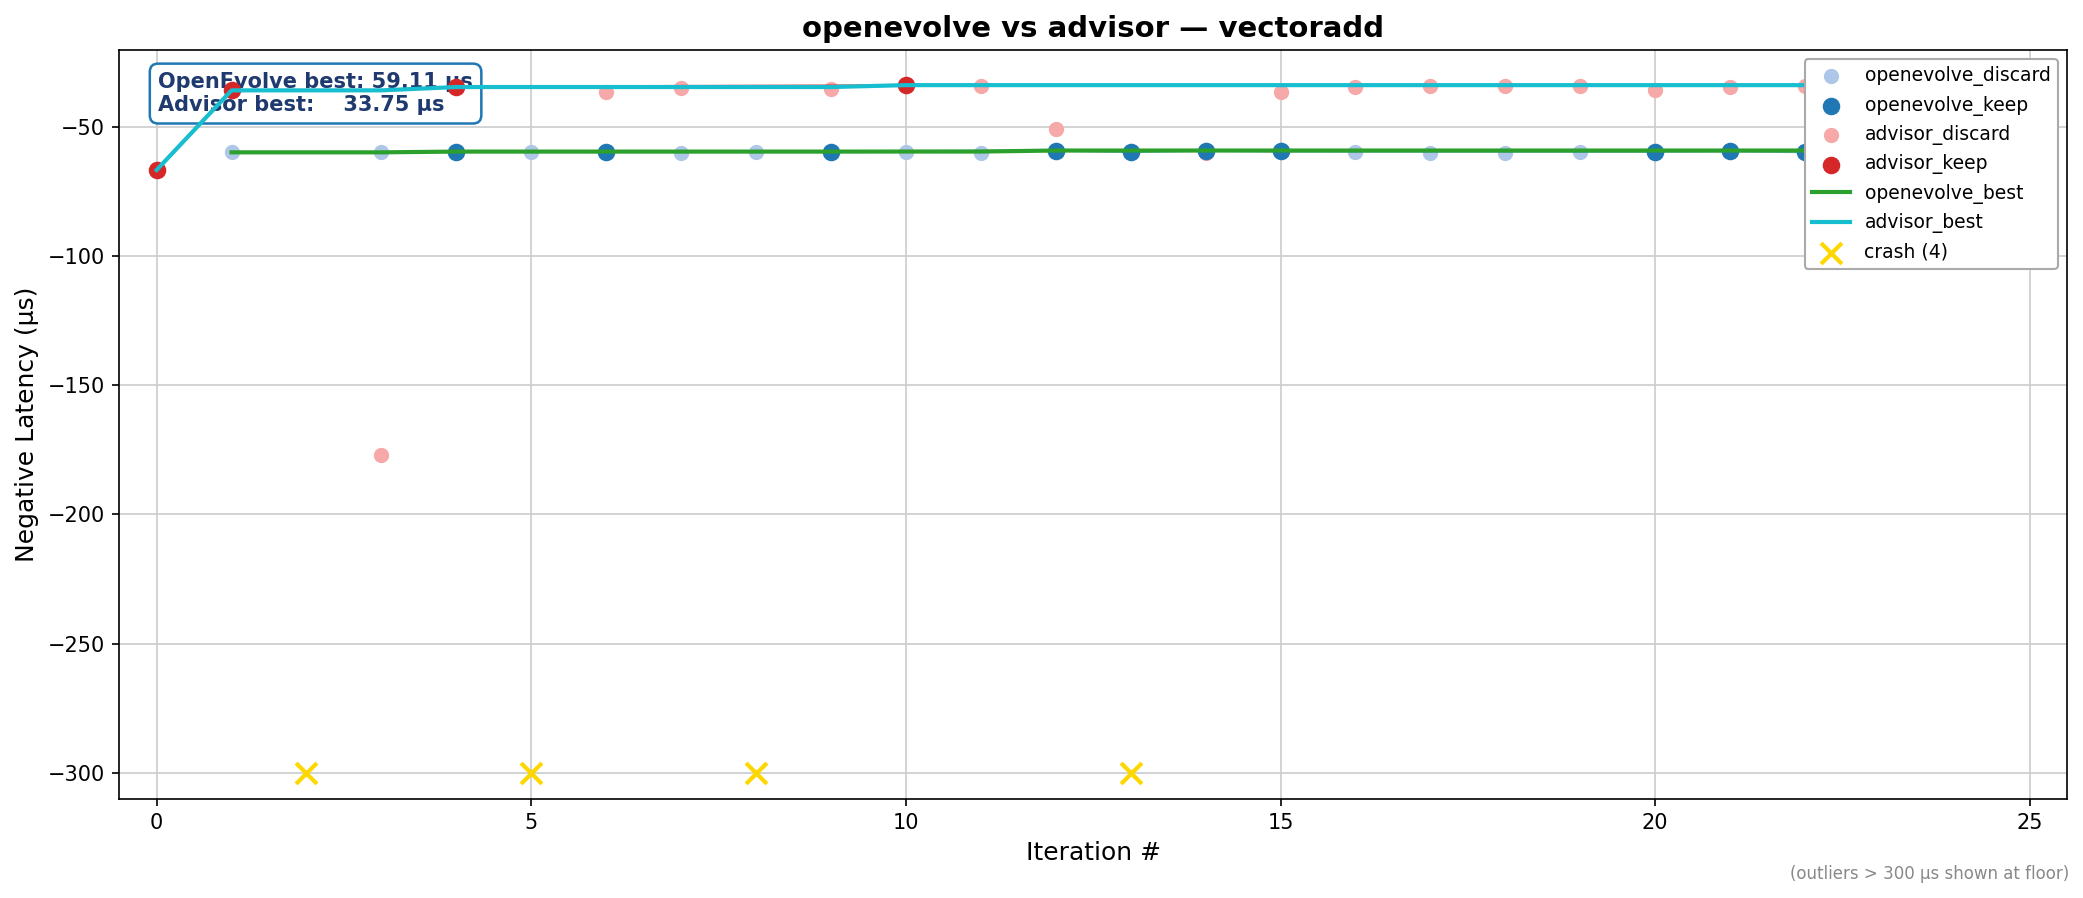
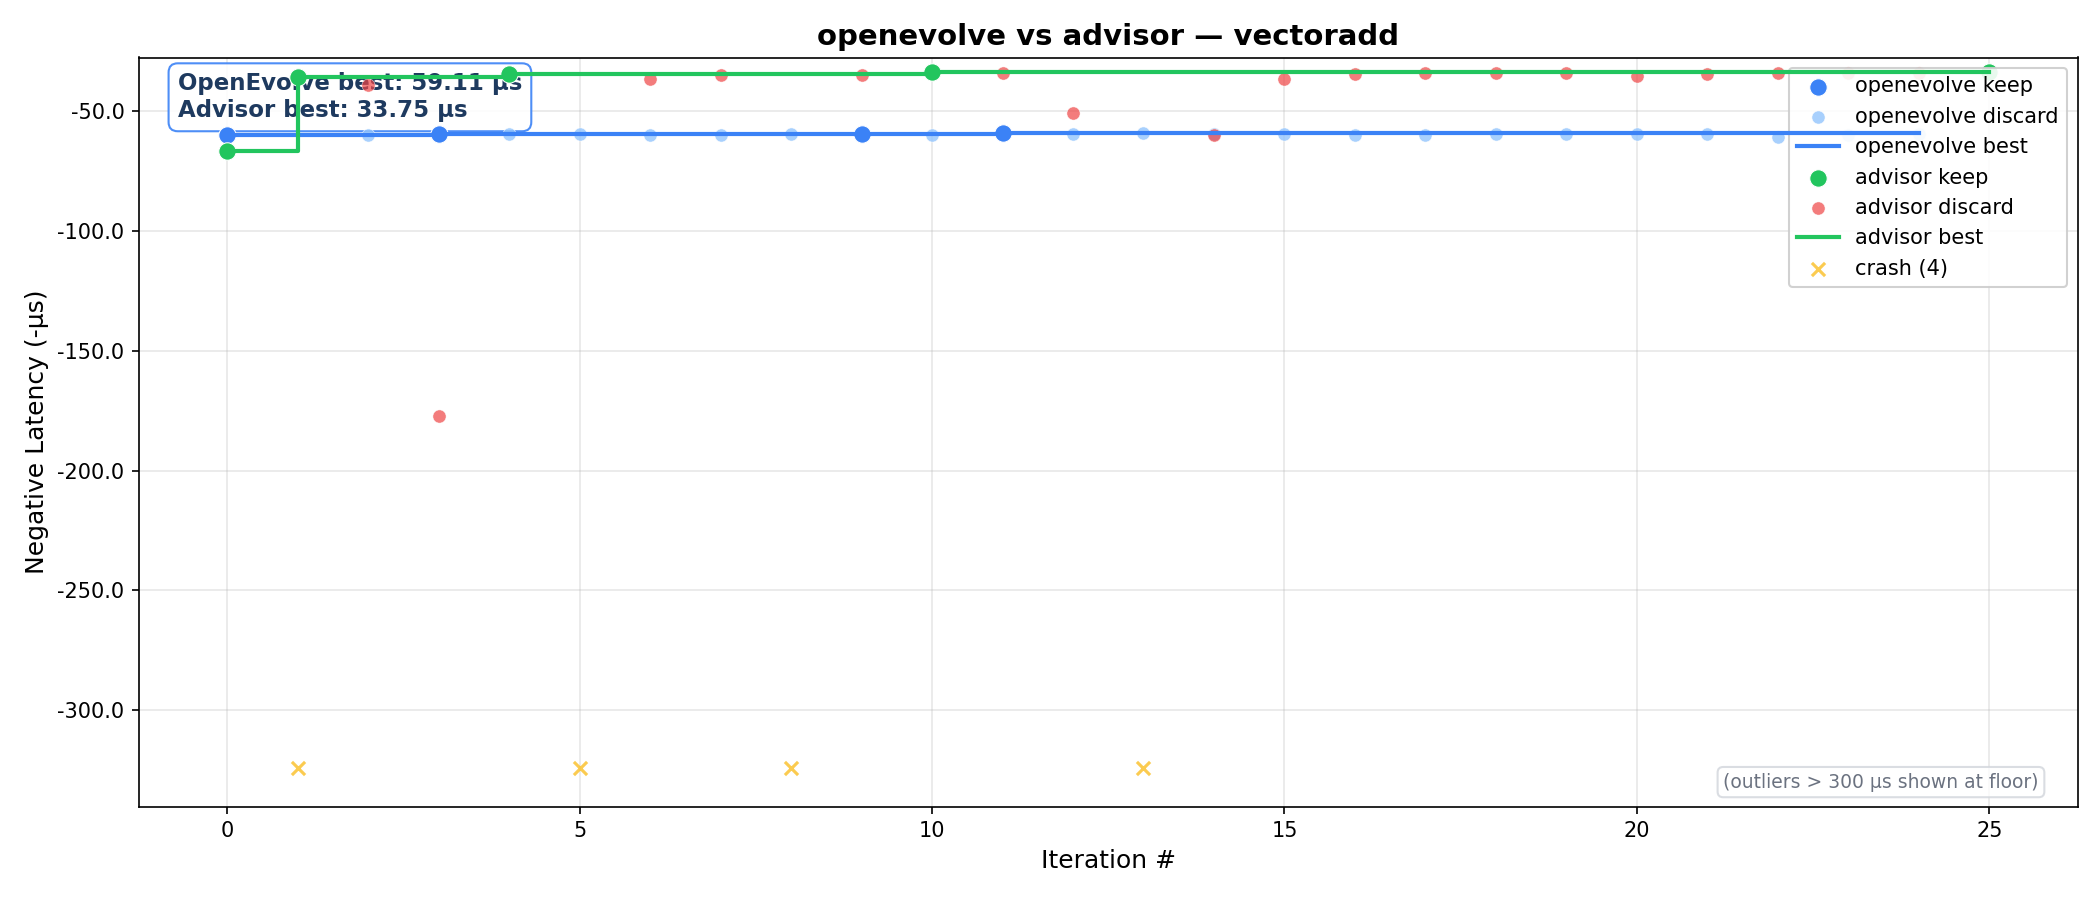
updated plot

diff --git a/plot_comparison.py b/plot_comparison.py
@@ -1,184 +1,164 @@
+"""
+Generate openevolvevsadvisor.png comparing the advisor run (from TSV) vs
+OpenEvolve run1 (data from log).
+"""
+import matplotlib
+matplotlib.use("Agg")
 import matplotlib.pyplot as plt
-import matplotlib.patches as mpatches
-import numpy as np
+import matplotlib.ticker as ticker
+import csv
 
-# --- OpenEvolve data (from run1.log, in evaluation order) ---
-oe_data = [
-    (1,  59.813, "discard"),
-    (2,  None,   "crash"),
-    (3,  59.853, "discard"),
-    (4,  59.525, "keep"),
-    (5,  59.796, "discard"),
-    (6,  59.615, "keep"),
-    (7,  60.028, "discard"),
-    (8,  59.864, "discard"),
-    (9,  59.539, "keep"),
-    (10, 59.504, "discard"),
-    (11, 60.104, "discard"),
-    (12, 59.110, "keep"),
-    (13, 59.670, "keep"),
-    (14, 59.138, "keep"),
-    (15, 59.428, "keep"),
-    (16, 59.772, "discard"),
-    (17, 60.147, "discard"),
-    (18, 60.107, "discard"),
-    (19, 59.687, "discard"),
-    (20, 59.515, "keep"),
-    (21, 59.386, "keep"),
-    (22, 59.686, "keep"),
-    (23, 60.639, "discard"),
-    (24, 60.039, "discard"),
-    (25, 59.759, "discard"),
+# ── Advisor data (from TSV) ──────────────────────────────────────────────────
+TSV = "/workspace/vectoradd-advisor/vectoradd/runs/20260608_210059_vectoradd_starting_point/results.tsv"
+adv_iters, adv_times, adv_kinds = [], [], []
+with open(TSV) as f:
+    reader = csv.DictReader(f, delimiter="\t")
+    for row in reader:
+        it = int(row["agent_iteration"])
+        t  = float(row["time_us"])
+        st = row["status"]
+        adv_iters.append(it)
+        adv_times.append(t)
+        adv_kinds.append(st)
+
+# ── OpenEvolve data (parsed from log, shifted to start at 0) ─────────────────
+# None = crash
+oe_raw = [
+    (0,  59.813),
+    (1,  None),     # crash
+    (2,  59.853),
+    (3,  59.525),
+    (4,  59.796),
+    (5,  59.615),
+    (6,  60.028),
+    (7,  59.864),
+    (8,  59.539),
+    (9,  59.504),
+    (10, 60.104),
+    (11, 59.110),
+    (12, 59.670),
+    (13, 59.138),
+    (14, 59.428),
+    (15, 59.772),
+    (16, 60.147),
+    (17, 60.107),
+    (18, 59.687),
+    (19, 59.515),
+    (20, 59.386),
+    (21, 59.686),
+    (22, 60.639),
+    (23, 60.039),
+    (24, 59.759),
 ]
-
-# --- Advisor data (from results.tsv) ---
-adv_data = [
-    (0,  66.64,  "keep"),
-    (1,  35.82,  "keep"),
-    (2,  39.27,  "discard"),
-    (3,  177.13, "discard"),
-    (4,  34.53,  "keep"),
-    (5,  None,   "crash"),
-    (6,  36.58,  "discard"),
-    (7,  34.95,  "discard"),
-    (8,  None,   "crash"),
-    (9,  35.16,  "discard"),
-    (10, 33.80,  "keep"),
-    (11, 34.04,  "discard"),
-    (12, 50.84,  "discard"),
-    (13, None,   "crash"),
-    (14, 59.92,  "discard"),
-    (15, 36.50,  "discard"),
-    (16, 34.37,  "discard"),
-    (17, 34.22,  "discard"),
-    (18, 34.04,  "discard"),
-    (19, 34.21,  "discard"),
-    (20, 35.56,  "discard"),
-    (21, 34.46,  "discard"),
-    (22, 34.31,  "discard"),
-    (23, 34.18,  "discard"),
-    (24, 34.07,  "discard"),
-    (25, 33.75,  "keep"),
-]
-
-FLOOR = -300.0
-
-def neg_clamp(v):
-    if v is None:
-        return None
-    neg = -v
-    return max(neg, FLOOR)
-
-# Separate series
-oe_keep_x, oe_keep_y   = [], []
-oe_disc_x, oe_disc_y   = [], []
-oe_crash_x, oe_crash_y = [], []
-
-for it, us, st in oe_data:
-    if st == "crash":
-        oe_crash_x.append(it)
-        oe_crash_y.append(FLOOR)
-    elif st == "keep":
-        oe_keep_x.append(it)
-        oe_keep_y.append(neg_clamp(us))
+oe_iters, oe_times, oe_kinds = [], [], []
+best_so_far = float("inf")
+for it, t in oe_raw:
+    oe_iters.append(it)
+    oe_times.append(t if t is not None else 0.0)
+    if t is None:
+        oe_kinds.append("crash")
+    elif t < best_so_far:
+        best_so_far = t
+        oe_kinds.append("keep")
     else:
-        oe_disc_x.append(it)
-        oe_disc_y.append(neg_clamp(us))
+        oe_kinds.append("discard")
 
-adv_keep_x, adv_keep_y   = [], []
-adv_disc_x, adv_disc_y   = [], []
-adv_crash_x, adv_crash_y = [], []
+# ── Compute best-over-time step lines ────────────────────────────────────────
+def best_step(iters, times, kinds):
+    bx, by = [], []
+    best = float("inf")
+    for it, t, k in sorted(zip(iters, times, kinds)):
+        if k == "keep" and t > 0:
+            best = t
+        if best < float("inf"):
+            bx.append(it)
+            by.append(best)
+    return bx, by
 
-for it, us, st in adv_data:
-    if st == "crash":
-        adv_crash_x.append(it)
-        adv_crash_y.append(FLOOR)
-    elif st == "keep":
-        adv_keep_x.append(it)
-        adv_keep_y.append(neg_clamp(us))
-    else:
-        adv_disc_x.append(it)
-        adv_disc_y.append(neg_clamp(us))
+adv_bx, adv_by = best_step(adv_iters, adv_times, adv_kinds)
+oe_bx,  oe_by  = best_step(oe_iters,  oe_times,  oe_kinds)
 
-# Running best lines
-def running_best(data):
-    xs, ys = [], []
-    best = None
-    for it, us, st in data:
-        if us is not None and (best is None or us < best):
-            best = us
-        if best is not None:
-            xs.append(it)
-            ys.append(-best)
-    return xs, ys
+adv_best = min(t for t, k in zip(adv_times, adv_kinds) if k == "keep")
+oe_best  = min(oe_by) if oe_by else float("inf")
 
-oe_best_x, oe_best_y   = running_best(oe_data)
-adv_best_x, adv_best_y = running_best(adv_data)
+# ── Y-axis range (negative latency) — clip extreme outliers to floor ─────────
+CLIP_US = 300.0
+all_valid = [t for t in adv_times + oe_times if 0 < t <= CLIP_US]
+y_hi = -(min(all_valid) * 0.82)
+y_lo = -(CLIP_US * 1.08)
 
-oe_best_val  = -oe_best_y[-1]   if oe_best_y  else None
-adv_best_val = -adv_best_y[-1]  if adv_best_y else None
+def ny(t):
+    if t <= 0:
+        return y_lo
+    return max(-t, y_lo)
 
-# --- Plot ---
+# ── Plot ─────────────────────────────────────────────────────────────────────
 fig, ax = plt.subplots(figsize=(14, 6))
 
-# Colors
-OE_KEEP_COLOR  = "#1f77b4"   # dark blue
-OE_DISC_COLOR  = "#aec7e8"   # light blue
-ADV_KEEP_COLOR = "#d62728"   # dark red
-ADV_DISC_COLOR = "#f7a8a8"   # light pink
-BEST_OE_COLOR  = "#2ca02c"   # green
-BEST_ADV_COLOR = "#17becf"   # teal/cyan
-CRASH_COLOR    = "#FFD700"   # gold
+# OpenEvolve series — blue tones
+oe_kx = [it for it, k in zip(oe_iters, oe_kinds) if k == "keep"]
+oe_ky = [ny(oe_times[i]) for i, k in enumerate(oe_kinds) if k == "keep"]
+oe_dx = [it for it, k in zip(oe_iters, oe_kinds) if k == "discard"]
+oe_dy = [ny(oe_times[i]) for i, k in enumerate(oe_kinds) if k == "discard"]
+oe_cx = [it for it, k in zip(oe_iters, oe_kinds) if k == "crash"]
+if oe_kx:
+    ax.scatter(oe_kx, oe_ky, c="#3b82f6", s=70, zorder=5,
+               edgecolors="white", linewidths=0.5, label="openevolve keep")
+if oe_dx:
+    ax.scatter(oe_dx, oe_dy, c="#93c5fd", s=40, zorder=4,
+               edgecolors="white", linewidths=0.3, alpha=0.8, label="openevolve discard")
+if oe_bx:
+    ax.step(oe_bx, [-t for t in oe_by], where="post",
+            color="#3b82f6", linewidth=2, label="openevolve best", zorder=6)
 
-# OpenEvolve scatter
-ax.scatter(oe_disc_x,  oe_disc_y,  color=OE_DISC_COLOR,  s=40, zorder=3, label="openevolve_discard")
-ax.scatter(oe_keep_x,  oe_keep_y,  color=OE_KEEP_COLOR,  s=55, zorder=4, label="openevolve_keep")
-ax.plot(oe_keep_x,     oe_keep_y,  color=OE_KEEP_COLOR,  linewidth=1.2, zorder=3, alpha=0.6)
+# Advisor series — green tones
+adv_kx = [it for it, k in zip(adv_iters, adv_kinds) if k == "keep"]
+adv_ky = [ny(adv_times[i]) for i, k in enumerate(adv_kinds) if k == "keep"]
+adv_dx = [it for it, k in zip(adv_iters, adv_kinds) if k == "discard"]
+adv_dy = [ny(adv_times[i]) for i, k in enumerate(adv_kinds) if k == "discard"]
+adv_cx = [it for it, k in zip(adv_iters, adv_kinds) if k == "crash"]
+if adv_kx:
+    ax.scatter(adv_kx, adv_ky, c="#22c55e", s=70, zorder=5,
+               edgecolors="white", linewidths=0.5, label="advisor keep")
+if adv_dx:
+    ax.scatter(adv_dx, adv_dy, c="#ef4444", s=40, zorder=4,
+               edgecolors="white", linewidths=0.3, alpha=0.7, label="advisor discard")
+if adv_bx:
+    ax.step(adv_bx, [-t for t in adv_by], where="post",
+            color="#22c55e", linewidth=2, label="advisor best", zorder=6)
 
-# Advisor scatter
-ax.scatter(adv_disc_x, adv_disc_y, color=ADV_DISC_COLOR, s=40, zorder=3, label="advisor_discard")
-ax.scatter(adv_keep_x, adv_keep_y, color=ADV_KEEP_COLOR, s=55, zorder=4, label="advisor_keep")
-ax.plot(adv_keep_x,    adv_keep_y, color=ADV_KEEP_COLOR, linewidth=1.2, zorder=3, alpha=0.6)
+# Crashes (both OE and advisor)
+all_cx = oe_cx + adv_cx
+if all_cx:
+    ax.scatter(all_cx, [y_lo] * len(all_cx), c="#fbbf24", s=40, zorder=3,
+               marker="x", linewidths=1.5, label=f"crash ({len(all_cx)})", alpha=0.8)
 
-# Best lines
-ax.plot(oe_best_x,  oe_best_y,  color=BEST_OE_COLOR,  linewidth=2.0, zorder=5, label="openevolve_best")
-ax.plot(adv_best_x, adv_best_y, color=BEST_ADV_COLOR, linewidth=2.0, zorder=5, label="advisor_best")
-
-# Crashes (combine both)
-crash_x = oe_crash_x + adv_crash_x
-crash_y = oe_crash_y + adv_crash_y
-ax.scatter(crash_x, crash_y, color=CRASH_COLOR, marker="x", s=100, linewidths=2, zorder=6,
-           label=f"crash ({len(crash_x)})")
-
-# Axes
+ax.set_ylim(y_lo * 1.05, y_hi)
+ax.yaxis.set_major_formatter(ticker.FormatStrFormatter("%.1f"))
 ax.set_xlabel("Iteration #", fontsize=12)
-ax.set_ylabel("Negative Latency (µs)", fontsize=12)
+ax.set_ylabel("Negative Latency (-μs)", fontsize=12)
 ax.set_title("openevolve vs advisor — vectoradd", fontsize=14, fontweight="bold")
-ax.set_xlim(-0.5, 25.5)
-ax.set_ylim(FLOOR - 10, -20)
-ax.grid(True, color="#cccccc", linewidth=0.8, linestyle="-")
-ax.set_axisbelow(True)
+ax.legend(loc="upper right", framealpha=0.9)
+ax.grid(True, alpha=0.3)
 
-# Annotation box
-ann_text = (
-    f"OpenEvolve best: {oe_best_val:.2f} µs\n"
-    f"Advisor best:    {adv_best_val:.2f} µs"
-)
+# Best-time annotation
 ax.annotate(
-    ann_text,
-    xy=(0.02, 0.97),
-    xycoords="axes fraction",
-    va="top", ha="left",
-    fontsize=10, fontweight="bold", color="#1f3a6e",
-    bbox=dict(boxstyle="round,pad=0.4", facecolor="white", edgecolor="#1f77b4", linewidth=1.2),
+    f"OpenEvolve best: {oe_best:.2f} μs\nAdvisor best: {adv_best:.2f} μs",
+    xy=(0.02, 0.98), xycoords="axes fraction",
+    va="top", fontsize=11, fontweight="bold", color="#1e3a5f",
+    bbox=dict(boxstyle="round,pad=0.4", facecolor="white", edgecolor="#3b82f6", alpha=0.9),
 )
 
-# Footer note
-fig.text(0.99, 0.01, "(outliers > 300 µs shown at floor)",
-         ha="right", va="bottom", fontsize=8, color="#888888")
+# Clip note
+ax.annotate(
+    f"(outliers > {CLIP_US:.0f} μs shown at floor)",
+    xy=(0.98, 0.02), xycoords="axes fraction",
+    ha="right", va="bottom", fontsize=9, color="#6b7280",
+    bbox=dict(boxstyle="round,pad=0.3", facecolor="white", edgecolor="#d1d5db", alpha=0.8),
+)
 
-ax.legend(loc="upper right", fontsize=9, framealpha=1.0, edgecolor="#aaaaaa")
-
-plt.tight_layout()
-plt.savefig("openevolvevsadvisor.png", dpi=150, bbox_inches="tight")
-print("Saved openevolvevsadvisor.png")
+fig.tight_layout()
+out = "/workspace/vectoradd-advisor/openevolvevsadvisor.png"
+fig.savefig(out, dpi=150)
+plt.close(fig)
+print(f"Saved {out}")